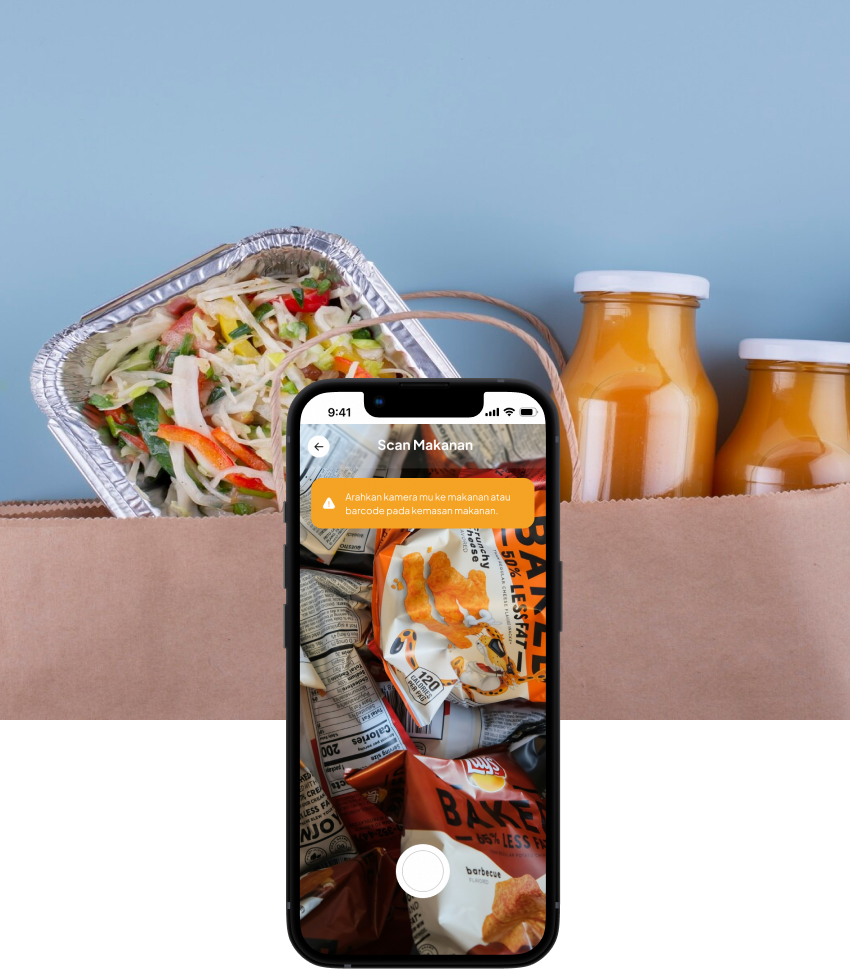
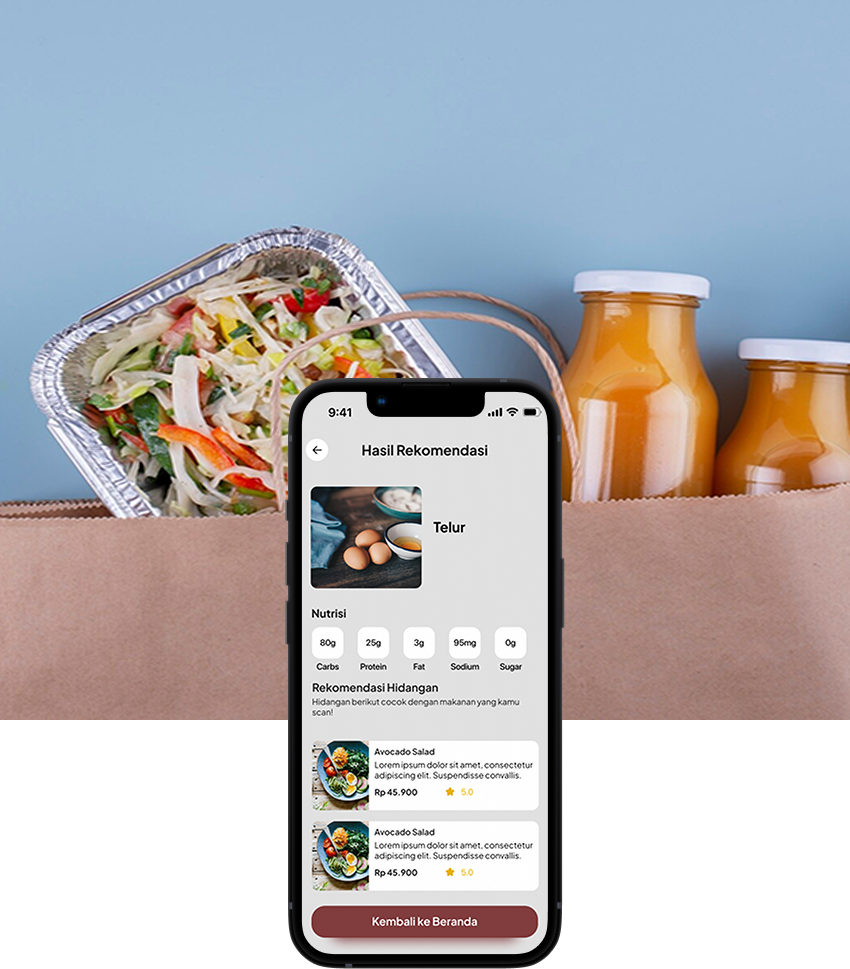
update

diff --git a/lib/pages/scan/scan_result_page.dart b/lib/pages/scan/scan_result_page.dart
@@ -8,6 +8,7 @@ import 'package:santapan_fe/data/models/menu_model.dart';
 import 'package:santapan_fe/data/models/nutrition_model.dart';
 import 'package:santapan_fe/data/urls.dart';
 import 'package:santapan_fe/models/response_model.dart';
+import 'package:santapan_fe/pages/beranda/beranda_page.dart';
 import 'package:santapan_fe/pages/beranda/detail_menu_page.dart';
 import 'package:santapan_fe/pages/navbar.dart';
 import 'package:santapan_fe/pages/scan/nutrisi_result.dart';
@@ -34,7 +35,7 @@ class _ScanResultPageState extends State<ScanResultPage> {
   bool isLoading = false;
   NutritionModel? _nutritionModel;
   String? errorMessage;
-  MenuModel? _menuModel;  // Added to hold the recommended menu data
+  MenuModel? _menuModel; // Added to hold the recommended menu data
 
   @override
   void initState() {
@@ -50,8 +51,8 @@ class _ScanResultPageState extends State<ScanResultPage> {
     });
 
     // Fetch nutrition data based on prediction
-    final NetworkResponse response =
-        await NetworkCaller().getRequest(Urls.nutritionUrl + "?classification=" + widget.prediction);
+    final NetworkResponse response = await NetworkCaller()
+        .getRequest(Urls.nutritionUrl + "?classification=" + widget.prediction);
 
     if (response.isSuccess) {
       setState(() {
@@ -73,8 +74,8 @@ class _ScanResultPageState extends State<ScanResultPage> {
 
   Future<void> fetchRecommendedMenus() async {
     // Replace this with your actual API endpoint or logic to fetch recommended menus
-    final NetworkResponse response =
-        await NetworkCaller().getRequest(Urls.menuUrl + "/food-nutrition?food_name=${widget.prediction}");
+    final NetworkResponse response = await NetworkCaller().getRequest(
+        Urls.menuUrl + "/food-nutrition?food_name=${widget.prediction}");
 
     if (response.isSuccess) {
       setState(() {
@@ -99,6 +100,7 @@ class _ScanResultPageState extends State<ScanResultPage> {
           child: Column(
             crossAxisAlignment: CrossAxisAlignment.start,
             children: [
+              const SizedBox(height: 32),
               // Back Button and Title
               Row(
                 crossAxisAlignment: CrossAxisAlignment.center,
@@ -162,48 +164,72 @@ class _ScanResultPageState extends State<ScanResultPage> {
               if (isLoading)
                 const Center(child: CircularProgressIndicator())
               else if (errorMessage != null)
-                Center(child: Text(errorMessage!, style: TypographyStyles.regular(14, Colors.red)))
+                Center(
+                    child: Text(errorMessage!,
+                        style: TypographyStyles.regular(14, Colors.red)))
               else if (_nutritionModel != null)
                 NutrisiResult(
                   nutrisiList: [
-                    Nutrisi(label: 'Karbo', value: _nutritionModel!.carbohydrates.toString(), satuan: 'g'),
-                    Nutrisi(label: 'Protein', value: _nutritionModel!.protein.toString(), satuan: 'g'),
-                    Nutrisi(label: 'Kalori', value: _nutritionModel!.calories.toString(), satuan: 'kcal'),
-                    Nutrisi(label: 'Gula', value: _nutritionModel!.sugar.toString(), satuan: 'g'),
-                    Nutrisi(label: 'Fat', value: _nutritionModel!.fat.toString(), satuan: 'g'),
+                    Nutrisi(
+                        label: 'Karbo',
+                        value: _nutritionModel!.carbohydrates.toString(),
+                        satuan: 'g'),
+                    Nutrisi(
+                        label: 'Protein',
+                        value: _nutritionModel!.protein.toString(),
+                        satuan: 'g'),
+                    Nutrisi(
+                        label: 'Kalori',
+                        value: _nutritionModel!.calories.toString(),
+                        satuan: 'kcal'),
+                    Nutrisi(
+                        label: 'Gula',
+                        value: _nutritionModel!.sugar.toString(),
+                        satuan: 'g'),
+                    Nutrisi(
+                        label: 'Fat',
+                        value: _nutritionModel!.fat.toString(),
+                        satuan: 'g'),
                   ],
                 ),
 
-              const SizedBox(height: 20),
+              const SizedBox(height: 10),
 
               // Recommendation Section
-              Text("Rekomendasi Hidangan", style: TypographyStyles.bold(16, ColorStyles.black)),
+              Text("Rekomendasi Hidangan",
+                  style: TypographyStyles.bold(16, ColorStyles.black)),
               Text(
                 "Hidangan berikut cocok dengan makanan yang kamu scan!",
                 style: TypographyStyles.bold(14, ColorStyles.grey),
               ),
 
-              const SizedBox(height: 20),
+              const SizedBox(height: 10),
               // Display Recommended Menus
               _menuModel == null
-                  ? Center(child: Text('Produk tidak ditemukan.', style: TypographyStyles.medium(16, Colors.grey)))
-                  : ListView.builder(
-                      shrinkWrap: true,
-                      physics: NeverScrollableScrollPhysics(),
-                      itemCount: _menuModel?.data?.menus?.length ?? 0,
-                      itemBuilder: (context, index) {
-                        final product = _menuModel?.data?.menus?[index];
-                        if (product == null) return const SizedBox();
+                  ? Center(
+                      child: Text('Produk tidak ditemukan.',
+                          style: TypographyStyles.medium(16, Colors.grey)))
+                  : SizedBox(
+                      height:
+                          300, // Fixed height to control the ListView's size
+                      child: ListView.builder(
+                        shrinkWrap: true,
+                        physics: const NeverScrollableScrollPhysics(),
+                        itemCount: _menuModel?.data?.menus?.length ?? 0,
+                        itemBuilder: (context, index) {
+                          final product = _menuModel?.data?.menus?[index];
+                          if (product == null) return const SizedBox();
 
-                        return _buildMenuItem(
-                          id: product.id ?? 0,
-                          name: product.title ?? '',
-                          description: product.description ?? '',
-                          price: (product.price ?? 0).toString(),
-                          rating: 4.5,
-                          imageUrl: product.image ?? '',
-                        );
-                      },
+                          return _buildMenuItem(
+                            id: product.id ?? 0,
+                            name: product.title ?? '',
+                            description: product.description ?? '',
+                            price: (product.price ?? 0).toString(),
+                            rating: 4.5,
+                            imageUrl: product.image ?? '',
+                          );
+                        },
+                      ),
                     ),
 
               const SizedBox(height: 20),
@@ -212,7 +238,12 @@ class _ScanResultPageState extends State<ScanResultPage> {
               ButtonCustom(
                 label: "Kembali ke Beranda",
                 onTap: () {
-                  Navigator.pop(context);
+                  Navigator.push(
+                    context,
+                    MaterialPageRoute(
+                      builder: (context) => const Navbar(),
+                    ),
+                  );
                 },
                 isExpand: true,
               ),

diff --git a/lib/pages/scan/scan_page.dart b/lib/pages/scan/scan_page.dart
@@ -2,6 +2,7 @@ import 'dart:io';
 import 'package:flutter/material.dart';
 import 'package:camera/camera.dart';
 import 'package:image/image.dart' as img;
+import 'package:santapan_fe/core/app_assets.dart';
 import 'package:santapan_fe/core/color_styles.dart';
 import 'package:santapan_fe/core/typography_styles.dart';
 import 'package:santapan_fe/pages/scan/helper.dart';
@@ -61,7 +62,13 @@ class _ScanPageState extends State<ScanPage> {
       List<String> prediction = _modelHelper.predict(image);
 
       // Navigate to detail page with prediction result
-      Navigator.push(context, MaterialPageRoute(builder: (context) => ScanResultPage(prediction: prediction[0], accuracy: prediction[1], image: image)));
+      Navigator.push(
+          context,
+          MaterialPageRoute(
+              builder: (context) => ScanResultPage(
+                  prediction: prediction[0],
+                  accuracy: prediction[1],
+                  image: image)));
 
       ScaffoldMessenger.of(context).showSnackBar(
         SnackBar(content: Text('Berhasil mengklasifikasikan gambar')),
@@ -87,44 +94,56 @@ class _ScanPageState extends State<ScanPage> {
         child: Stack(
           children: [
             Positioned.fill(
-              child: _cameraController != null && _cameraController!.value.isInitialized
+              child: _cameraController != null &&
+                      _cameraController!.value.isInitialized
                   ? CameraPreview(_cameraController!)
                   : const Center(child: CircularProgressIndicator()),
             ),
             Positioned(
-              top: 0,
-              left: 0,
+              top: 12,
+              left: 16,
               right: 0,
-              child: AppBar(
-                title: Text(
-                  'Scan Makanan',
-                  style: TypographyStyles.bold(20, ColorStyles.bgScreen),
+              child: Row(
+                children: [
+                  GestureDetector(
+                    onTap: () {
+                      Navigator.pop(context);
+                    },
+                    child: Image.asset(
+                      AppAssets.leftRoundedIcon,
+                      width: 40,
+                      height: 40,
+                    ),
+                  ),
+                  const SizedBox(width: 90),
+                  Text(
+                    "Scan Makanan",
+                    style: TypographyStyles.bold(20, ColorStyles.bgScreen),
+                    textAlign: TextAlign.center,
+                  ),
+                ],
+              ),
+            ),
+            Positioned(
+              top: 60,
+              left: 16,
+              right: 16,
+              child: Card(
+                elevation: 0, // Adjust elevation for shadow effect
+                shape: RoundedRectangleBorder(
+                  borderRadius: BorderRadius.circular(8), // Rounded corners
                 ),
-                backgroundColor: Colors.transparent,
-                elevation: 0,
-                iconTheme: IconThemeData(color: ColorStyles.bgScreen),  // Set back button color
+                color: Colors.amber,
+                child: Padding(
+                  padding:
+                      const EdgeInsets.symmetric(horizontal: 16, vertical: 12),
+                  child: Text(
+                    'Arahkan kamera ke makanan untuk menemukan rekomendasi sehat dari Santapan',
+                    style: TypographyStyles.bold(14, ColorStyles.bgScreen),
+                  ),
+                ),
               ),
             ),
-       Positioned(
-          top: 60,
-          left: 16,
-          right: 16,
-          child: Card(
-            elevation: 0, // Adjust elevation for shadow effect
-            shape: RoundedRectangleBorder(
-              borderRadius: BorderRadius.circular(8), // Rounded corners
-            ),
-            color: Colors.amber,
-            child: Padding(
-              padding: const EdgeInsets.symmetric(horizontal: 16, vertical: 12),
-              child: Text(
-                'Arahkan kamera mu ke makanan atau barcode pada kemasan makanan.',
-                style: TypographyStyles.bold(14, ColorStyles.bgScreen),
-              ),
-            ),
-          ),
-        ),
-           
           ],
         ),
       ),

diff --git a/lib/pages/navbar.dart b/lib/pages/navbar.dart
@@ -18,21 +18,27 @@ class _NavbarState extends State<Navbar> {
   int _currentIndex = 0;
   final PageController _pageController = PageController();
 
-  void _onPageChanged(int index) {
+  void _onPageChanged(int pageIndex) {
+    // Map PageView index to BottomNavigationBar index
+    int navbarIndex = pageIndex < 2 ? pageIndex : pageIndex + 1;
     setState(() {
-      _currentIndex = index;
+      _currentIndex = navbarIndex;
     });
   }
 
   void _onItemTapped(int index) {
     if (index == 2) {
-      // Open ScanPage directly without changing the page view
       Navigator.push(
         context,
         MaterialPageRoute(builder: (context) => const ScanPage()),
       );
     } else {
-      _pageController.jumpToPage(index > 2 ? index - 1 : index); // Adjust index
+      // Map BottomNavigationBar index to PageView index
+      int pageIndex = index > 2 ? index - 1 : index;
+      setState(() {
+        _currentIndex = index;
+      });
+      _pageController.jumpToPage(pageIndex);
     }
   }
 

diff --git a/lib/pages/auth/signup_page.dart b/lib/pages/auth/signup_page.dart
@@ -350,8 +350,7 @@ class _SignupPageState extends State<SignupPage> {
                                 Navigator.pushReplacement(
                                   context,
                                   MaterialPageRoute(
-                                      builder: (context) =>
-                                          const VerificationPage()),
+                                      builder: (context) => const SigninPage()),
                                 );
                               },
                           ),

diff --git a/lib/data/urls.dart b/lib/data/urls.dart
@@ -1,6 +1,6 @@
 class Urls {
-  static String baseUrl = 'http://192.168.100.105:9090';
-  static String transactionServiceUrl = 'http://192.168.100.105:9091';
+  static String baseUrl = 'http://192.168.18.85:9090';
+  static String transactionServiceUrl = 'http://192.168.18.85:9091';
   static String loginURl = '$baseUrl/login';
   static String personalisasiURL = '$baseUrl/personalisasi';
   static String registerURl = '$baseUrl/register';
